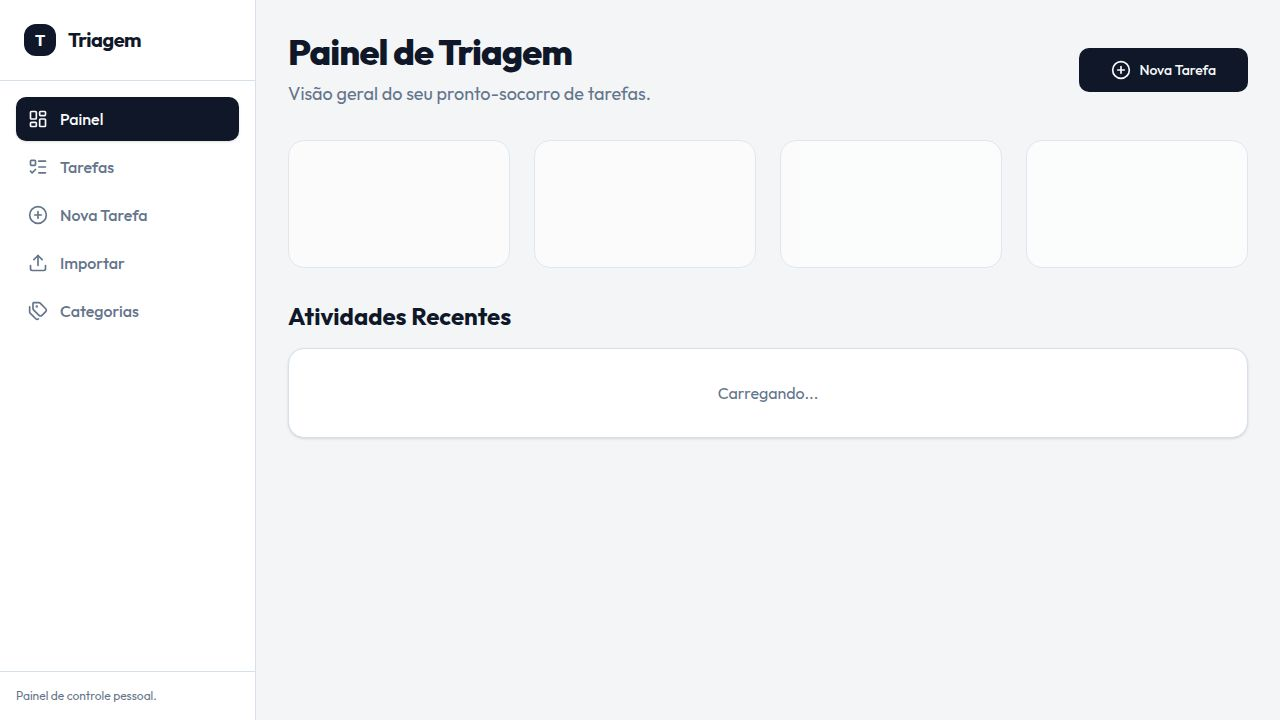
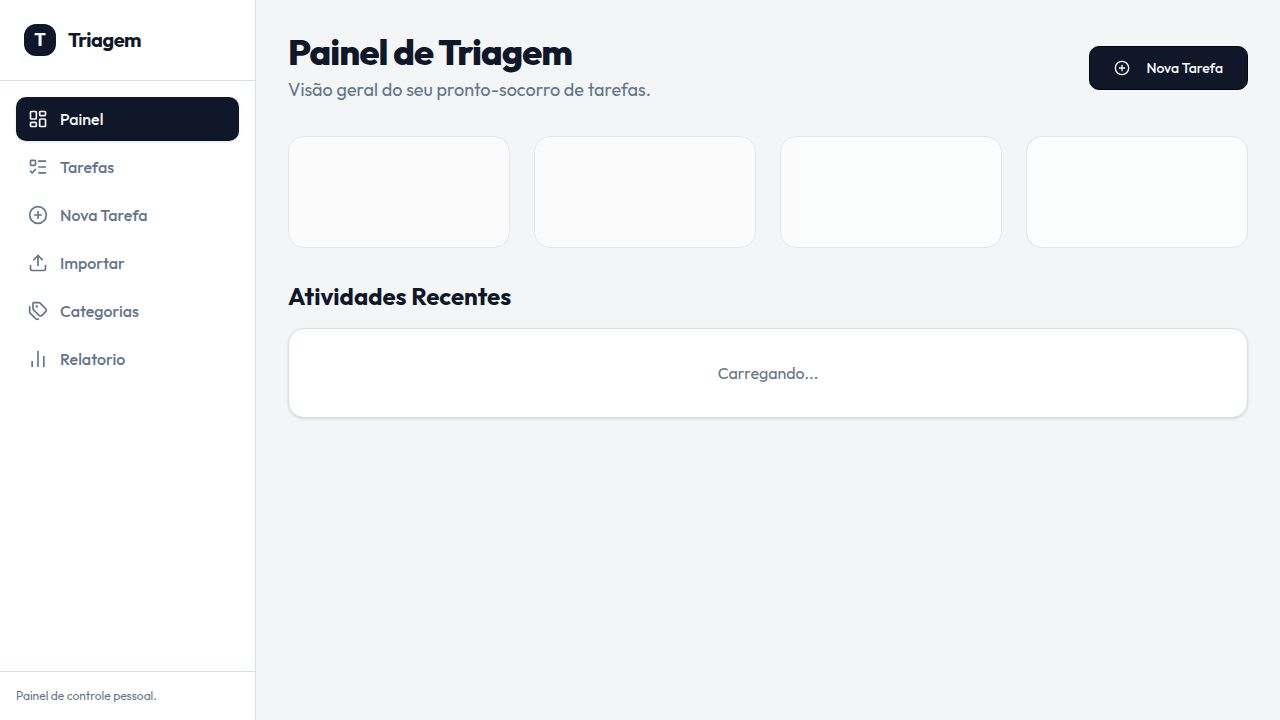
Remove error overlays from Vite build process
Remove the runtime error overlay plugin and its import from vite.config.ts.

Replit-Commit-Author: Agent
Replit-Commit-Session-Id: 697dd042-5a75-45ae-94c2-995cb0d2c802
Replit-Commit-Checkpoint-Type: full_checkpoint
Replit-Commit-Event-Id: c0daecae-59dd-42ba-bd3f-e3716dabbcc3
Replit-Commit-Screenshot-Url: https://storage.googleapis.com/screenshot-production-us-central1/118f600b-91c5-4323-b187-796185e12ef2/697dd042-5a75-45ae-94c2-995cb0d2c802/hhUI47Q
Replit-Helium-Checkpoint-Created: true

diff --git a/artifacts/hospital-tasks/vite.config.ts b/artifacts/hospital-tasks/vite.config.ts
@@ -2,7 +2,6 @@ import { defineConfig } from "vite";
 import react from "@vitejs/plugin-react";
 import tailwindcss from "@tailwindcss/vite";
 import path from "path";
-import runtimeErrorOverlay from "@replit/vite-plugin-runtime-error-modal";
 
 const rawPort = process.env.PORT;
 
@@ -31,7 +30,6 @@ export default defineConfig({
   plugins: [
     react(),
     tailwindcss(),
-    runtimeErrorOverlay(),
     ...(process.env.NODE_ENV !== "production" &&
     process.env.REPL_ID !== undefined
       ? [